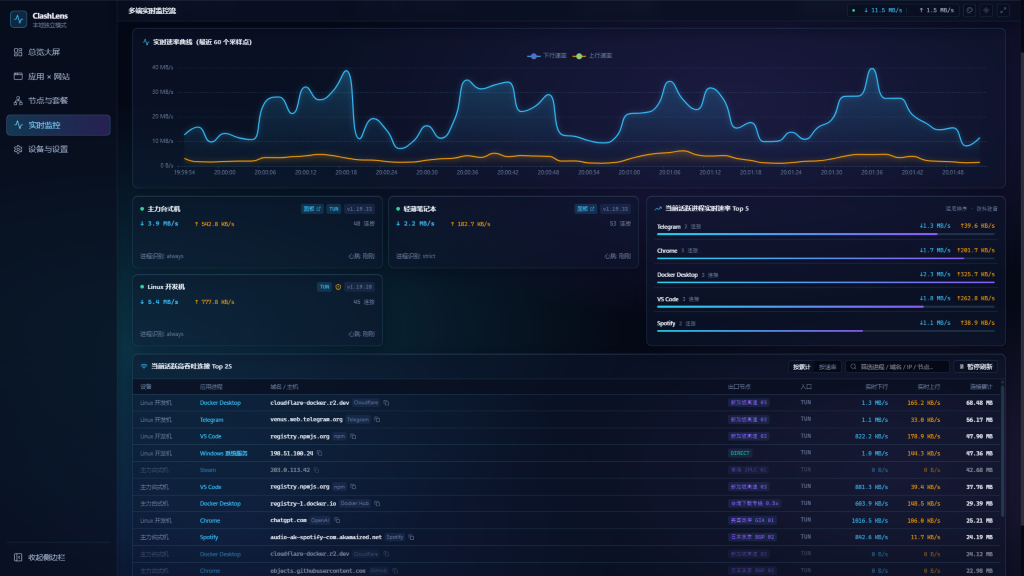
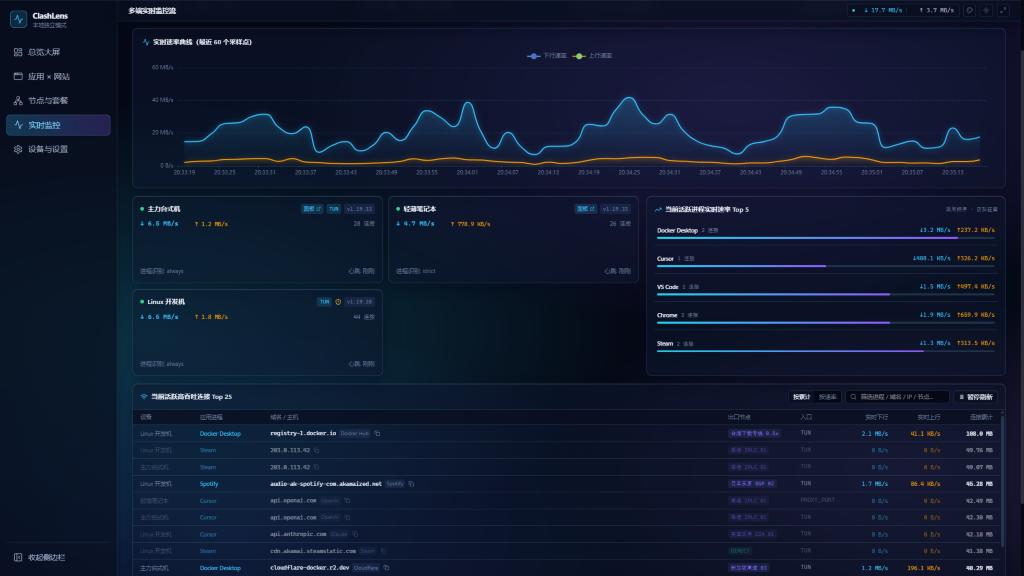
fix(web): eliminate hover/bar jitter on LiveMonitor and cross-device layout shift
- Reserve permanent scrollbar-gutter: stable on html to prevent horizontal centering shift across all pages
- LiveMonitorPage: set 4096 B/s EMA bar floor and zero out tiny decaying dust so 0 B/s idle rows never spike to 100%, lock Top 5 card/row/header heights with opacity-toggled lock badge and remove hover border reflow
- NodesQuotaPage: canonically sort Donut route_split legend (PROXY/DIRECT/REJECT) and unify bottom Proxy Audit & Rules Ranking cards to fixed 460px scroll heights

diff --git a/web/src/pages/LiveMonitorPage.tsx b/web/src/pages/LiveMonitorPage.tsx
@@ -181,23 +181,25 @@ export function LiveMonitorPage({
       for (const old of prev) {
         const cur = incoming.get(old.process)
         if (cur) {
+          const nextEma = old.emaBps * (1 - EMA_ALPHA) + cur.totalBps * EMA_ALPHA
           merged.set(old.process, {
             process: old.process,
             downBps: cur.downBps,
             upBps: cur.upBps,
             totalBps: cur.totalBps,
-            emaBps: old.emaBps * (1 - EMA_ALPHA) + cur.totalBps * EMA_ALPHA,
+            emaBps: nextEma < 64 && cur.totalBps === 0 ? 0 : nextEma,
             conns: cur.conns,
             lastSeenAt: now,
             idle: false,
           })
         } else if (lockedSet?.has(old.process) || now - old.lastSeenAt < STICKY_TTL_MS) {
+          const decayed = old.emaBps * 0.5
           merged.set(old.process, {
             ...old,
             downBps: 0,
             upBps: 0,
             totalBps: 0,
-            emaBps: old.emaBps * 0.5,
+            emaBps: decayed < 64 ? 0 : decayed,
             conns: 0,
             idle: true,
           })
@@ -372,7 +374,7 @@ export function LiveMonitorPage({
   }
 
   const maxProcEma = useMemo(() => {
-    let maxVal = 1
+    let maxVal = 4096
     for (const r of procRows) {
       if (r.emaBps > maxVal) maxVal = r.emaBps
       if (r.totalBps > maxVal) maxVal = r.totalBps
@@ -579,29 +581,31 @@ export function LiveMonitorPage({
         </div>
 
         <div
-          className="cl-card flex min-h-[282px] flex-col rounded-xl p-4 lg:col-span-5"
+          data-testid="live-top-processes-card"
+          className="cl-card flex h-[338px] flex-col overflow-hidden rounded-xl p-4 lg:col-span-5"
           onMouseEnter={handleProcMouseEnter}
           onMouseLeave={handleProcMouseLeave}
         >
-          <div className="mb-3 flex items-center justify-between gap-2">
-            <div className="flex items-center gap-2">
-              <TrendingUp className="h-4 w-4" style={{ color: 'var(--cl-accent-primary)' }} />
-              <h3 className="text-sm font-semibold">当前活跃进程实时速率 Top 5</h3>
-              {procHoverLocked && !paused && (
-                <span
-                  data-testid="proc-hover-lock-badge"
-                  className="inline-flex items-center gap-1 rounded px-1.5 py-0.5 font-mono text-[10px]"
-                  style={{
-                    backgroundColor: 'var(--cl-accent-soft)',
-                    color: 'var(--cl-accent-primary)',
-                  }}
-                >
-                  <Lock className="h-2.5 w-2.5" />
-                  悬停已锁定
-                </span>
-              )}
+          <div className="mb-3 flex h-6 shrink-0 items-center justify-between gap-2">
+            <div className="flex min-w-0 items-center gap-2">
+              <TrendingUp className="h-4 w-4 shrink-0" style={{ color: 'var(--cl-accent-primary)' }} />
+              <h3 className="truncate text-sm font-semibold">当前活跃进程实时速率 Top 5</h3>
+              <span
+                data-testid="proc-hover-lock-badge"
+                aria-hidden={!(procHoverLocked && !paused)}
+                className={`inline-flex h-5 shrink-0 items-center gap-1 rounded px-1.5 font-mono text-[10px] leading-none transition-opacity duration-150 ${
+                  procHoverLocked && !paused ? 'opacity-100' : 'pointer-events-none opacity-0'
+                }`}
+                style={{
+                  backgroundColor: 'var(--cl-accent-soft)',
+                  color: 'var(--cl-accent-primary)',
+                }}
+              >
+                <Lock className="h-2.5 w-2.5" />
+                悬停已锁定
+              </span>
             </div>
-            <span className="font-mono text-[10px] text-[var(--cl-text-muted)]">阻尼排序 · 防抖驻留</span>
+            <span className="shrink-0 font-mono text-[10px] text-[var(--cl-text-muted)]">阻尼排序 · 防抖驻留</span>
           </div>
           {procRows.length === 0 ? (
             <div className="flex flex-1 items-center justify-center py-6 text-center text-xs text-[var(--cl-text-muted)]">
@@ -610,13 +614,18 @@ export function LiveMonitorPage({
           ) : (
             <div className="cl-list-stack space-y-2">
               {procRows.map((p) => {
-                const pct = p.idle ? 0 : Math.max(4, Math.round(((p.emaBps || p.totalBps) / maxProcEma) * 100))
+                const effectiveBps = p.totalBps === 0 && p.emaBps < 128 ? 0 : (p.emaBps || p.totalBps)
+                const pct =
+                  p.idle || effectiveBps <= 0
+                    ? 0
+                    : Math.max(4, Math.min(100, Math.round((effectiveBps / maxProcEma) * 100)))
                 return (
                   <button
                     type="button"
                     key={p.process}
+                    data-testid="live-proc-row"
                     onClick={() => onOpenApp(p.process)}
-                    className={`cl-list-item block w-full cursor-pointer rounded-lg border px-3 py-2 text-left transition-[opacity,border-color] duration-300 hover:border-[var(--cl-border-focus)] ${
+                    className={`cl-list-item flex h-[46px] w-full cursor-pointer flex-col justify-center rounded-lg border px-3 py-1.5 text-left transition-[opacity,background-color] duration-300 hover:bg-[var(--cl-bg-surface-hover)] ${
                       p.idle ? 'opacity-50' : ''
                     }`}
                   >
@@ -660,17 +669,17 @@ export function LiveMonitorPage({
       </div>
 
       {/* Live Top Active Connections (Sticky TTL + Hover-to-Freeze + Fixed Scroll Container) */}
-      <div className="cl-card overflow-hidden rounded-xl">
+      <div data-testid="live-top-conns-card" className="cl-card overflow-hidden rounded-xl">
         <div
-          className="flex flex-wrap items-center justify-between gap-2 border-b px-4 py-3"
+          className="flex min-h-[48px] flex-wrap items-center justify-between gap-2 border-b px-4 py-2.5"
           style={{ borderColor: 'var(--cl-border-subtle)' }}
         >
-          <div className="flex flex-wrap items-center gap-2">
+          <div className="flex h-6 flex-wrap items-center gap-2">
             <Wifi className="h-4 w-4" style={{ color: 'var(--cl-accent-primary)' }} />
             <h3 className="text-sm font-semibold">当前活跃高吞吐连接 Top 25</h3>
             {paused ? (
               <span
-                className="rounded px-1.5 py-0.5 font-mono text-[10px]"
+                className="inline-flex h-5 items-center rounded px-1.5 font-mono text-[10px] leading-none"
                 style={{
                   backgroundColor: 'rgba(245, 158, 11, 0.14)',
                   color: 'var(--cl-status-warning)',
@@ -681,7 +690,7 @@ export function LiveMonitorPage({
             ) : tableHoverLocked ? (
               <span
                 data-testid="table-hover-lock-badge"
-                className="inline-flex items-center gap-1 rounded px-1.5 py-0.5 font-mono text-[10px]"
+                className="inline-flex h-5 items-center gap-1 rounded px-1.5 font-mono text-[10px] leading-none"
                 style={{
                   backgroundColor: 'var(--cl-accent-soft)',
                   color: 'var(--cl-accent-primary)',

diff --git a/web/src/pages/NodesQuotaPage.tsx b/web/src/pages/NodesQuotaPage.tsx
@@ -40,7 +40,10 @@ export function NodesQuotaPage({
   }, [data])
 
   const donutOption = useMemo<echarts.EChartsCoreOption>(() => {
-    const splits = data?.route_split ?? []
+    const routeOrder: Record<string, number> = { PROXY: 0, DIRECT: 1, REJECT: 2 }
+    const splits = [...(data?.route_split ?? [])].sort(
+      (a, b) => (routeOrder[a.route_type] ?? 99) - (routeOrder[b.route_type] ?? 99),
+    )
     const colorMap: Record<string, string> = chartTheme.routeColors
     const labelMap: Record<string, string> = {
       PROXY: '代理 (PROXY)',
@@ -256,12 +259,12 @@ export function NodesQuotaPage({
         </div>
       </div>
 
-      {/* Bottom row: Proxy Audit + Rules & Nodes table */}
+      {/* Bottom row: Proxy Audit + Rules & Nodes table (unified fixed heights prevent cross-device layout shift) */}
       <div className="grid gap-4 lg:grid-cols-2">
         {/* Proxy Audit */}
-        <div className="cl-card overflow-hidden rounded-xl">
+        <div data-testid="proxy-audit-card" className="cl-card flex flex-col overflow-hidden rounded-xl">
           <div
-            className="flex items-center justify-between border-b px-4 py-3"
+            className="flex shrink-0 items-center justify-between border-b px-4 py-3"
             style={{ borderColor: 'var(--cl-border-subtle)' }}
           >
             <div className="flex items-center gap-2">
@@ -270,21 +273,23 @@ export function NodesQuotaPage({
             </div>
             <span className="text-[11px] text-[var(--cl-text-muted)]">代理消耗最高的流向条目</span>
           </div>
-          <div className="divide-y divide-[var(--cl-border-subtle)]">
+          <div className="cl-thin-scroll h-[460px] divide-y divide-[var(--cl-border-subtle)] overflow-y-auto">
             {!data || data.proxy_audit.length === 0 ? (
-              <div className="py-10 text-center text-xs text-[var(--cl-text-muted)]">当前范围无代理流量记录</div>
+              <div className="flex h-full items-center justify-center text-xs text-[var(--cl-text-muted)]">
+                当前范围无代理流量记录
+              </div>
             ) : (
               data.proxy_audit.map((item, idx) => (
                 <button
                   type="button"
                   key={`${item.process_display}-${item.root_domain}-${item.egress_node}-${idx}`}
                   onClick={() => onOpenApp(item.process_display)}
-                  className="flex w-full cursor-pointer items-center justify-between gap-3 px-4 py-2.5 text-left transition hover:bg-[var(--cl-bg-surface-hover)]"
+                  className="flex min-h-[58px] w-full cursor-pointer items-center justify-between gap-3 px-4 py-2.5 text-left transition hover:bg-[var(--cl-bg-surface-hover)]"
                 >
                   <div className="min-w-0">
-                    <div className="flex items-center gap-1.5 text-xs">
-                      <span className="font-semibold">{item.process_display}</span>
-                      <ArrowRight className="h-3 w-3 text-[var(--cl-text-muted)]" />
+                    <div className="flex h-5 items-center gap-1.5 text-xs">
+                      <span className="shrink-0 font-semibold">{item.process_display}</span>
+                      <ArrowRight className="h-3 w-3 shrink-0 text-[var(--cl-text-muted)]" />
                       <span
                         className="truncate font-mono"
                         style={{ color: 'var(--cl-accent-primary)' }}
@@ -293,7 +298,7 @@ export function NodesQuotaPage({
                       </span>
                       {item.service_tag && (
                         <span
-                          className="rounded px-1.5 py-0.5 text-[10px] text-[var(--cl-text-muted)]"
+                          className="shrink-0 rounded px-1.5 py-0.5 text-[10px] leading-none text-[var(--cl-text-muted)]"
                           style={{ backgroundColor: 'var(--cl-bg-surface-hover)' }}
                         >
                           {item.service_tag}
@@ -301,7 +306,7 @@ export function NodesQuotaPage({
                       )}
                       {isMatchFallbackRule(item.rule) && (
                         <span
-                          className="rounded px-1.5 py-0.5 font-mono text-[10px]"
+                          className="shrink-0 rounded px-1.5 py-0.5 font-mono text-[10px] leading-none"
                           style={{
                             backgroundColor: 'rgba(245, 158, 11, 0.14)',
                             color: 'var(--cl-status-warning)',
@@ -336,9 +341,9 @@ export function NodesQuotaPage({
         </div>
 
         {/* Rules distribution */}
-        <div className="cl-card overflow-hidden rounded-xl">
+        <div data-testid="rules-rank-card" className="cl-card flex flex-col overflow-hidden rounded-xl">
           <div
-            className="flex items-center justify-between border-b px-4 py-3"
+            className="flex shrink-0 items-center justify-between border-b px-4 py-3"
             style={{ borderColor: 'var(--cl-border-subtle)' }}
           >
             <div className="flex items-center gap-2">
@@ -347,10 +352,10 @@ export function NodesQuotaPage({
             </div>
             <Network className="h-4 w-4 text-[var(--cl-text-muted)]" />
           </div>
-          <div className="overflow-x-auto">
+          <div className="cl-thin-scroll h-[460px] overflow-x-auto overflow-y-auto">
             <table className="w-full text-left text-xs">
               <thead
-                className="border-b bg-[var(--cl-bg-sidebar)] text-[var(--cl-text-muted)]"
+                className="sticky top-0 z-10 border-b bg-[var(--cl-bg-sidebar)] text-[var(--cl-text-muted)]"
                 style={{ borderColor: 'var(--cl-border-subtle)' }}
               >
                 <tr>

diff --git a/web/src/index.css b/web/src/index.css
@@ -130,6 +130,7 @@
   html {
     background-color: var(--cl-bg-page);
     font-size: var(--cl-font-size-base, 14px);
+    scrollbar-gutter: stable;
     -webkit-font-smoothing: antialiased;
     -moz-osx-font-smoothing: grayscale;
     text-rendering: optimizeLegibility;
